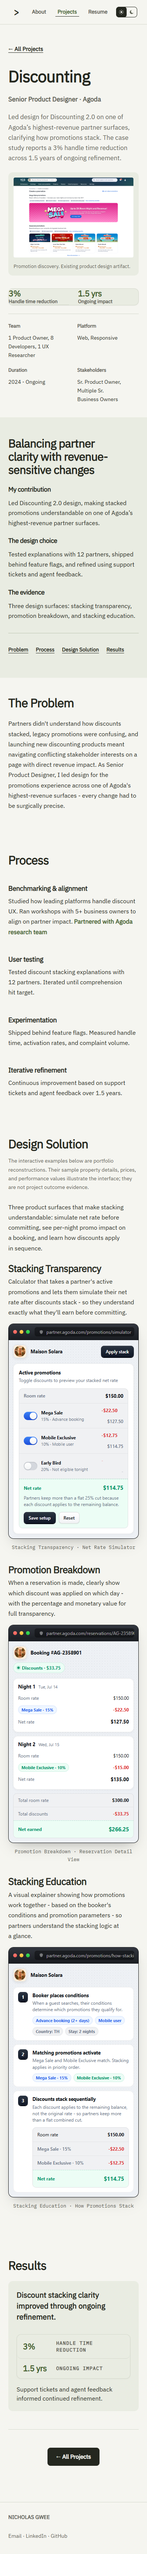
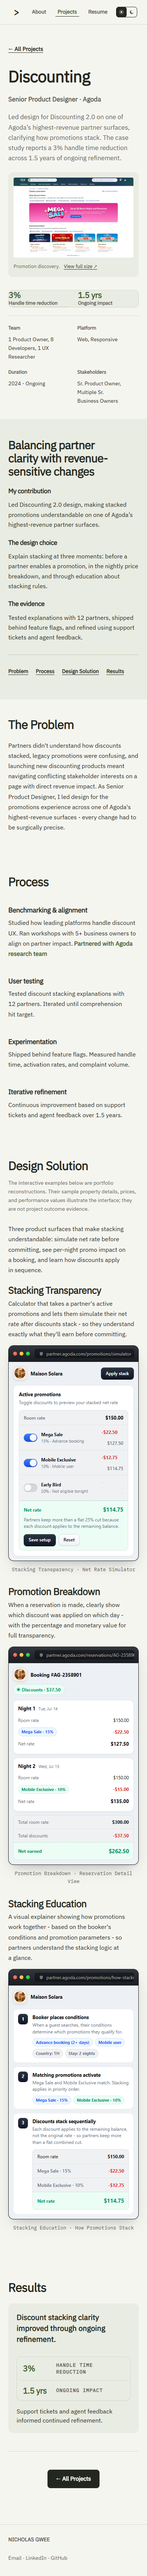
Fix review defects in artifact access, contrast and mobile examples

Changed region(s): [[0.0615, 0.0, 0.9538, 0.9655]]

diff --git a/index.html b/index.html
@@ -92,7 +92,7 @@
 
 <main id="main">
   <section class="hero hero--home hiring-hero"><div class="container hiring-hero-grid"><div class="hiring-intro"><p class="hero-name">Nicholas Gwee</p><h1>Product Design Lead</h1><p class="hero-desc">I lead design teams and turn complex user and business problems into clear product experiences.</p><div class="hero-actions"><a href="projects.html" class="btn">View my work</a><a href="resume.html" class="text-link">Resume</a></div></div><figure class="hero-artifact"><a href="partner-growth-programs.html" aria-label="Explore Partner Growth Programs"><img src="images/partner-overview.webp" alt="YCS program catalog, bringing growth programs into a shared partner experience" width="1000" height="632" fetchpriority="high"></a><figcaption><span>Partner Growth Programs</span><a href="partner-growth-programs.html">Explore the decisions <span aria-hidden="true">&rarr;</span></a></figcaption></figure></div></section>
-<section class="selected-work" id="selected-work"><div class="container"><h2>Selected work</h2><p class="section-intro">Three different systems. The decisions that made them clearer.</p><div class="work-grid"><article class="work-entry work-entry--0"><a class="work-image" href="partner-growth-programs.html" aria-label="View Partner Growth Programs case study"><img src="images/partner-overview.webp" alt="YCS growth program catalog with program comparisons and activation actions" width="1000" height="632" loading="lazy" decoding="async"></a><div class="work-copy"><p class="work-role">Product Design Lead at Agoda</p><h3><a href="partner-growth-programs.html">Partner Growth Programs</a></h3><p class="work-decision">One experience across eight programs.</p><p>Owned design strategy across fragmented program funnels, aligning 5+ business owners around shared tenets and lifecycle patterns.</p><p class="work-evidence">MVP launched Q1 2026</p><p class="work-context">$521M+ in 2025 program portfolio revenue; this describes portfolio scale, not incremental revenue from the new hub.</p><a class="text-link" href="partner-growth-programs.html">View case study <span aria-hidden="true">&rarr;</span></a></div></article><article class="work-entry work-entry--1"><a class="work-image" href="discounting.html" aria-label="View Discounting case study"><img src="images/discounting-overview.webp" alt="YCS create a promotion interface showing campaign and seasonal promotion choices" width="1000" height="667" loading="lazy" decoding="async"></a><div class="work-copy"><p class="work-role">Senior Product Designer at Agoda</p><h3><a href="discounting.html">Discounting</a></h3><p class="work-decision">Make the price understandable.</p><p>Led Discounting 2.0 design, making stacked promotions understandable on one of Agoda’s highest-revenue partner surfaces.</p><p class="work-evidence">3% handle time reduction</p><p class="work-context">Reported in the existing case study, alongside 1.5 years of ongoing refinement.</p><a class="text-link" href="discounting.html">View case study <span aria-hidden="true">&rarr;</span></a></div></article><article class="work-entry work-entry--2"><a class="work-image" href="dev-portal.html" aria-label="View Developer Portal and Deployment case study"><img src="images/developer-overview.webp" alt="Developer Portal design with navigation, service catalog, and team information" width="1000" height="532" loading="lazy" decoding="async"></a><div class="work-copy"><p class="work-role">Senior Product Designer at Agoda Engineering</p><h3><a href="dev-portal.html">Developer Portal &amp; Deployment</a></h3><p class="work-decision">From tribal knowledge to a clear path.</p><p>Led 0-to-1 design as the first designer in DevOps, turning fragmented service creation and deployment into guided workflows.</p><p class="work-evidence">2 days to 6m 8s</p><p class="work-context">Service creation, as reported in the existing case study. SUS moved from 61.9 to 68.8.</p><a class="text-link" href="dev-portal.html">View case study <span aria-hidden="true">&rarr;</span></a></div></article></div></div></section>
+<section class="selected-work" id="selected-work"><div class="container"><h2>Selected work</h2><p class="section-intro">Three different systems. The decisions that made them clearer.</p><div class="work-grid"><article class="work-entry work-entry--0"><a class="work-image" href="partner-growth-programs.html" aria-label="View Partner Growth Programs case study"><img src="images/partner-overview.webp" alt="YCS growth program catalog with program comparisons and activation actions" width="1000" height="632" loading="lazy" decoding="async"></a><div class="work-copy"><p class="work-role">Product Design Lead at Agoda</p><h3><a href="partner-growth-programs.html">Partner Growth Programs</a></h3><p class="work-decision">One experience across eight programs.</p><p>Owned design strategy across fragmented program funnels, aligning 5+ business owners around shared tenets and lifecycle patterns.</p><p class="work-evidence">MVP launched Q1 2026</p><p class="work-context">$521M+ in 2025 program portfolio revenue; this describes portfolio scale, not incremental revenue from the new hub.</p><a class="text-link" href="partner-growth-programs.html">View case study <span aria-hidden="true">&rarr;</span></a></div></article><article class="work-entry work-entry--1"><a class="work-image" href="discounting.html" aria-label="View Discounting case study"><img src="images/discounting-overview.webp" alt="YCS create a promotion interface showing campaign and seasonal promotion choices" width="1000" height="667" loading="lazy" decoding="async"></a><div class="work-copy"><p class="work-role">Senior Product Designer at Agoda</p><h3><a href="discounting.html">Discounting</a></h3><p class="work-decision">Make the price understandable.</p><p>Led Discounting 2.0 design, making stacked promotions understandable on one of Agoda’s highest-revenue partner surfaces.</p><p class="work-evidence">3% handle time reduction</p><p class="work-context">Across 1.5 years of ongoing refinement.</p><a class="text-link" href="discounting.html">View case study <span aria-hidden="true">&rarr;</span></a></div></article><article class="work-entry work-entry--2"><a class="work-image" href="dev-portal.html" aria-label="View Developer Portal and Deployment case study"><img src="images/developer-overview.webp" alt="Developer Portal design with navigation, service catalog, and team information" width="1000" height="532" loading="lazy" decoding="async"></a><div class="work-copy"><p class="work-role">Senior Product Designer at Agoda Engineering</p><h3><a href="dev-portal.html">Developer Portal &amp; Deployment</a></h3><p class="work-decision">From tribal knowledge to a clear path.</p><p>Led 0-to-1 design as the first designer in DevOps, turning fragmented service creation and deployment into guided workflows.</p><p class="work-evidence">2 days to 6m 8s</p><p class="work-context">Service creation. SUS improved from 61.9 to 68.8.</p><a class="text-link" href="dev-portal.html">View case study <span aria-hidden="true">&rarr;</span></a></div></article></div></div></section>
   <section>
     <div class="container">
       <h2>Experience</h2>

diff --git a/projects.html b/projects.html
@@ -49,7 +49,7 @@
     </div>
   </section>
 
-<section class="selected-work" id="selected-work"><div class="container"><h2>Selected work</h2><p class="section-intro">Three different systems. The decisions that made them clearer.</p><div class="work-grid"><article class="work-entry work-entry--0"><a class="work-image" href="partner-growth-programs.html" aria-label="View Partner Growth Programs case study"><img src="images/partner-overview.webp" alt="YCS growth program catalog with program comparisons and activation actions" width="1000" height="632" loading="lazy" decoding="async"></a><div class="work-copy"><p class="work-role">Product Design Lead at Agoda</p><h3><a href="partner-growth-programs.html">Partner Growth Programs</a></h3><p class="work-decision">One experience across eight programs.</p><p>Owned design strategy across fragmented program funnels, aligning 5+ business owners around shared tenets and lifecycle patterns.</p><p class="work-evidence">MVP launched Q1 2026</p><p class="work-context">$521M+ in 2025 program portfolio revenue; this describes portfolio scale, not incremental revenue from the new hub.</p><a class="text-link" href="partner-growth-programs.html">View case study <span aria-hidden="true">&rarr;</span></a></div></article><article class="work-entry work-entry--1"><a class="work-image" href="discounting.html" aria-label="View Discounting case study"><img src="images/discounting-overview.webp" alt="YCS create a promotion interface showing campaign and seasonal promotion choices" width="1000" height="667" loading="lazy" decoding="async"></a><div class="work-copy"><p class="work-role">Senior Product Designer at Agoda</p><h3><a href="discounting.html">Discounting</a></h3><p class="work-decision">Make the price understandable.</p><p>Led Discounting 2.0 design, making stacked promotions understandable on one of Agoda’s highest-revenue partner surfaces.</p><p class="work-evidence">3% handle time reduction</p><p class="work-context">Reported in the existing case study, alongside 1.5 years of ongoing refinement.</p><a class="text-link" href="discounting.html">View case study <span aria-hidden="true">&rarr;</span></a></div></article><article class="work-entry work-entry--2"><a class="work-image" href="dev-portal.html" aria-label="View Developer Portal and Deployment case study"><img src="images/developer-overview.webp" alt="Developer Portal design with navigation, service catalog, and team information" width="1000" height="532" loading="lazy" decoding="async"></a><div class="work-copy"><p class="work-role">Senior Product Designer at Agoda Engineering</p><h3><a href="dev-portal.html">Developer Portal &amp; Deployment</a></h3><p class="work-decision">From tribal knowledge to a clear path.</p><p>Led 0-to-1 design as the first designer in DevOps, turning fragmented service creation and deployment into guided workflows.</p><p class="work-evidence">2 days to 6m 8s</p><p class="work-context">Service creation, as reported in the existing case study. SUS moved from 61.9 to 68.8.</p><a class="text-link" href="dev-portal.html">View case study <span aria-hidden="true">&rarr;</span></a></div></article></div></div></section><section class="archive-section"><div class="container">      <h2>Archive</h2>
+<section class="selected-work" id="selected-work"><div class="container"><h2>Selected work</h2><p class="section-intro">Three different systems. The decisions that made them clearer.</p><div class="work-grid"><article class="work-entry work-entry--0"><a class="work-image" href="partner-growth-programs.html" aria-label="View Partner Growth Programs case study"><img src="images/partner-overview.webp" alt="YCS growth program catalog with program comparisons and activation actions" width="1000" height="632" loading="lazy" decoding="async"></a><div class="work-copy"><p class="work-role">Product Design Lead at Agoda</p><h3><a href="partner-growth-programs.html">Partner Growth Programs</a></h3><p class="work-decision">One experience across eight programs.</p><p>Owned design strategy across fragmented program funnels, aligning 5+ business owners around shared tenets and lifecycle patterns.</p><p class="work-evidence">MVP launched Q1 2026</p><p class="work-context">$521M+ in 2025 program portfolio revenue; this describes portfolio scale, not incremental revenue from the new hub.</p><a class="text-link" href="partner-growth-programs.html">View case study <span aria-hidden="true">&rarr;</span></a></div></article><article class="work-entry work-entry--1"><a class="work-image" href="discounting.html" aria-label="View Discounting case study"><img src="images/discounting-overview.webp" alt="YCS create a promotion interface showing campaign and seasonal promotion choices" width="1000" height="667" loading="lazy" decoding="async"></a><div class="work-copy"><p class="work-role">Senior Product Designer at Agoda</p><h3><a href="discounting.html">Discounting</a></h3><p class="work-decision">Make the price understandable.</p><p>Led Discounting 2.0 design, making stacked promotions understandable on one of Agoda’s highest-revenue partner surfaces.</p><p class="work-evidence">3% handle time reduction</p><p class="work-context">Across 1.5 years of ongoing refinement.</p><a class="text-link" href="discounting.html">View case study <span aria-hidden="true">&rarr;</span></a></div></article><article class="work-entry work-entry--2"><a class="work-image" href="dev-portal.html" aria-label="View Developer Portal and Deployment case study"><img src="images/developer-overview.webp" alt="Developer Portal design with navigation, service catalog, and team information" width="1000" height="532" loading="lazy" decoding="async"></a><div class="work-copy"><p class="work-role">Senior Product Designer at Agoda Engineering</p><h3><a href="dev-portal.html">Developer Portal &amp; Deployment</a></h3><p class="work-decision">From tribal knowledge to a clear path.</p><p>Led 0-to-1 design as the first designer in DevOps, turning fragmented service creation and deployment into guided workflows.</p><p class="work-evidence">2 days to 6m 8s</p><p class="work-context">Service creation. SUS improved from 61.9 to 68.8.</p><a class="text-link" href="dev-portal.html">View case study <span aria-hidden="true">&rarr;</span></a></div></article></div></div></section><section class="archive-section"><div class="container">      <h2>Archive</h2>
       <div class="featured featured--archive">
         <div class="featured-copy">
           <span class="badge">UX Designer · GovTech</span>

diff --git a/discounting.html b/discounting.html
@@ -51,7 +51,7 @@
       <a href="projects.html" class="btn" style="margin-bottom:2rem">&larr; All Projects</a>
       <h1>Discounting</h1>
 <div class="hero-sub">Senior Product Designer &middot; Agoda</div>
-      <p class="hero-desc">Led design for Discounting 2.0 on one of Agoda’s highest-revenue partner surfaces, clarifying how promotions stack. The case study reports a 3% handle time reduction across 1.5 years of ongoing refinement.</p><figure class="case-artifact"><img src="images/discounting-overview.webp" alt="YCS create a promotion interface showing campaign and seasonal promotion choices" width="1000" height="667" fetchpriority="high"><figcaption>Promotion discovery. Existing product design artifact.</figcaption></figure>
+      <p class="hero-desc">Led design for Discounting 2.0 on one of Agoda’s highest-revenue partner surfaces, clarifying how promotions stack. The case study reports a 3% handle time reduction across 1.5 years of ongoing refinement.</p><figure class="case-artifact"><a href="images/detail_discounting.png" aria-label="View original artifact at full size"><img src="images/discounting-overview.webp" alt="YCS create a promotion interface showing campaign and seasonal promotion choices" width="1000" height="667" fetchpriority="high"></a><figcaption>Promotion discovery. <a class="artifact-fullsize" href="images/detail_discounting.png">View full size ↗</a></figcaption></figure>
       <div class="stats-row">
         <div class="stat-pill"><div class="num">3%</div><div class="label">Handle time reduction</div></div>
 
@@ -76,7 +76,7 @@
         </div>
       </div>
     </div>
-  </section><section class="case-brief"><div class="container"><h2>Balancing partner clarity with revenue-sensitive changes</h2><div class="case-brief-grid"><div><h3>My contribution</h3><p>Led Discounting 2.0 design, making stacked promotions understandable on one of Agoda’s highest-revenue partner surfaces.</p></div><div><h3>The design choice</h3><p>Tested explanations with 12 partners, shipped behind feature flags, and refined using support tickets and agent feedback.</p></div><div><h3>The evidence</h3><p>Three design surfaces: stacking transparency, promotion breakdown, and stacking education.</p></div></div><nav class="case-jumps" aria-label="Case study sections"><a href="#problem">Problem</a><a href="#process">Process</a><a href="#solution">Design Solution</a><a href="#results">Results</a></nav></div></section>
+  </section><section class="case-brief"><div class="container"><h2>Balancing partner clarity with revenue-sensitive changes</h2><div class="case-brief-grid"><div><h3>My contribution</h3><p>Led Discounting 2.0 design, making stacked promotions understandable on one of Agoda’s highest-revenue partner surfaces.</p></div><div><h3>The design choice</h3><p>Explain stacking at three moments: before a partner enables a promotion, in the nightly price breakdown, and through education about stacking rules.</p></div><div><h3>The evidence</h3><p>Tested explanations with 12 partners, shipped behind feature flags, and refined using support tickets and agent feedback.</p></div></div><nav class="case-jumps" aria-label="Case study sections"><a href="#problem">Problem</a><a href="#process">Process</a><a href="#solution">Design Solution</a><a href="#results">Results</a></nav></div></section>
 
   <section>
     <div class="container">
@@ -249,7 +249,7 @@
                       <span>Jul 14 - 16, 2026 · 2 nights</span>
                     </div>
                   </div>
-                  <span class="disc-bd-total">Discounts · $33.75</span>
+                  <span class="disc-bd-total">Discounts · $37.50</span>
                 </div>
 
                 <div class="disc-bd-grid">
@@ -299,11 +299,11 @@
                   </div>
                   <div class="disc-bd-footer-row">
                     <span>Total discounts</span>
-                    <strong class="cut">-$33.75</strong>
+                    <strong class="cut">-$37.50</strong>
                   </div>
                   <div class="disc-bd-footer-row total">
                     <span>Net earned</span>
-                    <span class="earn">$266.25</span>
+                    <span class="earn">$262.50</span>
                   </div>
                 </div>
               </div>

diff --git a/partner-growth-programs.html b/partner-growth-programs.html
@@ -54,7 +54,7 @@
       <a href="projects.html" class="btn" style="margin-bottom:2rem">&larr; Projects</a>
       <h1>Partner Growth Programs</h1>
 <div class="hero-sub">Product Design Lead &middot; Agoda</div>
-      <p class="hero-desc">Owned design strategy for Agoda’s partner growth suite: eight programs brought into one discovery and comparison experience. The program portfolio generated <strong>$521M+ in 2025</strong>; the new hub MVP launched Q1 2026.</p><figure class="case-artifact"><img src="images/partner-overview.webp" alt="YCS growth program catalog with program comparisons and activation actions" width="1000" height="632" fetchpriority="high"><figcaption>Program discovery and comparison. Existing product design artifact.</figcaption></figure>
+      <p class="hero-desc">Owned design strategy for Agoda’s partner growth suite: eight programs brought into one discovery and comparison experience. The program portfolio generated <strong>$521M+ in 2025</strong>; the new hub MVP launched Q1 2026.</p><figure class="case-artifact"><a href="images/detail_partner_overview.png" aria-label="View original artifact at full size"><img src="images/partner-overview.webp" alt="YCS growth program catalog with program comparisons and activation actions" width="1000" height="632" fetchpriority="high"></a><figcaption>Program discovery and comparison. <a class="artifact-fullsize" href="images/detail_partner_overview.png">View full size ↗</a></figcaption></figure>
       <div class="stats-row">
         <div class="stat-pill"><div class="num">$521M+</div><div class="label">2025 portfolio revenue</div></div>
         <div class="stat-pill"><div class="num">4</div><div class="label">Establish &amp; co-own program tenets</div></div>

diff --git a/dev-portal.html b/dev-portal.html
@@ -52,7 +52,7 @@
       <a href="projects.html" class="btn" style="margin-bottom:2rem">&larr; Projects</a>
       <h1>Developer Portal &amp; Deployment</h1>
 <div class="hero-sub">Senior Product Designer &middot; Agoda Engineering</div>
-      <p class="hero-desc">Led 0-to-1 design for Developer Portal and Deployment as the first designer in DevOps - cutting service creation from 2 days to 6m 8s (SUS 61.9 to 68.8; 4.4/5 deployment ease).</p><figure class="case-artifact"><img src="images/developer-overview.webp" alt="Developer Portal design with navigation, service catalog, and team information" width="1000" height="532" fetchpriority="high"><figcaption>Developer Portal landing design. Existing product design artifact.</figcaption></figure>
+      <p class="hero-desc">Led 0-to-1 design for Developer Portal and Deployment as the first designer in DevOps - cutting service creation from 2 days to 6m 8s (SUS 61.9 to 68.8; 4.4/5 deployment ease).</p><figure class="case-artifact"><a href="images/dev_ideation+landing.png" aria-label="View original artifact at full size"><img src="images/developer-overview.webp" alt="Developer Portal design with navigation, service catalog, and team information" width="1000" height="532" fetchpriority="high"></a><figcaption>Developer Portal landing design. <a class="artifact-fullsize" href="images/dev_ideation+landing.png">View full size ↗</a></figcaption></figure>
       <div class="stats-row">
         <div class="stat-pill"><div class="num">6 Min</div><div class="label">Service creation</div></div>
         <div class="stat-pill"><div class="num">68.8</div><div class="label">SUS score</div></div>

diff --git a/css/hiring.css b/css/hiring.css
@@ -131,3 +131,10 @@ footer{max-width:1280px;padding:38px 48px 48px;margin:auto;text-align:left;displ
  footer{padding:28px 22px 36px;flex-direction:column;gap:14px}.text-body{font-size:16px}
 }
 @media print{.skip-link,.case-jumps{display:none}.container{max-width:100%;padding-inline:0}.case-hero .container{display:block}.case-artifact{max-width:500px}.work-grid{display:block}.work-entry{break-inside:avoid;margin-bottom:24px}body{background:white;color:black}}
+
+/* Review fixes: keep navigation legible and source artifacts accessible. */
+.header .header-logo,[data-theme='dark'] .header .header-logo{color:var(--text)}
+.case-artifact>a{display:block}.artifact-fullsize{display:inline-block;margin-left:8px;color:var(--text);text-decoration:underline;min-height:24px}
+@media(max-width:767px){.dev-wiz-bar{height:auto;min-height:44px;flex-wrap:wrap;padding-block:10px}.dev-wiz-steps{position:static;transform:none;order:4;flex-basis:100%;justify-content:space-between;gap:8px;white-space:normal}.dev-wiz-steps span.is-active{padding-bottom:4px;margin-bottom:0}.dev-wiz-name{min-width:0;overflow-wrap:anywhere;flex-shrink:1}}
+
+.header .nav a{display:inline-flex;align-items:center;min-height:44px}

diff --git a/review/verification.md b/review/verification.md
@@ -8,7 +8,7 @@ Source baseline: `9cd719f1b2480bcd48ac3b6317a285079d3e5050`. Branch: `codex/port
 - `node --check js/teletype.js` and `node --check js/theme.js`: passed.
 - `git diff --check`: passed.
 - Impeccable detector on `css/hiring.css`: `[]` (no findings).
-- Independent design review: all listed material findings resolved after refreshed screenshots. Scope covers identified fixes, not a whole-site WCAG certification. Design documentation separately reviewed and corrected.
+- Independent design review: the initial listed findings were addressed, then parent review identified further defects. Follow-up fixes cover dark logo contrast, full-size artifact links, consistent illustrative receipt totals, and mobile deployment header wrapping. Broader visual rhythm, duplicate Partner imagery, optional deep evidence, and complete keyboard/dialog focus auditing remain open. This is a reviewable draft, not a whole-site accessibility certification.
 
 Final Lighthouse mobile lab run on local Chrome: Performance **92**, Accessibility **100**, Best Practices **100**, SEO **100**. LCP **3.2 seconds**, CLS **0**, total blocking time **0 ms**. LCP remains above the 2.5-second target on simulated mobile throttling. These are local lab measurements, not production field data. Reports: `lighthouse-final.report.html` and `.json`.
 
@@ -17,3 +17,6 @@ Screenshots in `final/` cover every primary route at 390px and 1440px in light t
 Existing case-study measurements have no independently supplied raw study dataset. The resume's eight lifecycle patterns conflicts with the seven in the Partner case; preserved resume requires owner confirmation. New project summaries avoid unsupported or conflicting activation-lift / complaint-ranking claims. All displayed project previews use existing artifacts. Product reconstructions are labelled and retain illustrative values.
 
 No main merge or production publication performed.
+
+
+Follow-up: normal-motion home visibly rendered, three flagship projects present, dark logo foreground/background distinct, three mobile wizard headers geometrically non-overlapping and visually inspected. Receipt arithmetic checked with scripts/check-receipt.cjs. Browser blank view not reproduced; HTTP200, visible hero/projects, zero local failed assets and page errors confirmed on the live loopback server. Latest Lighthouse predates these follow-up fixes; scores have not been remeasured.
